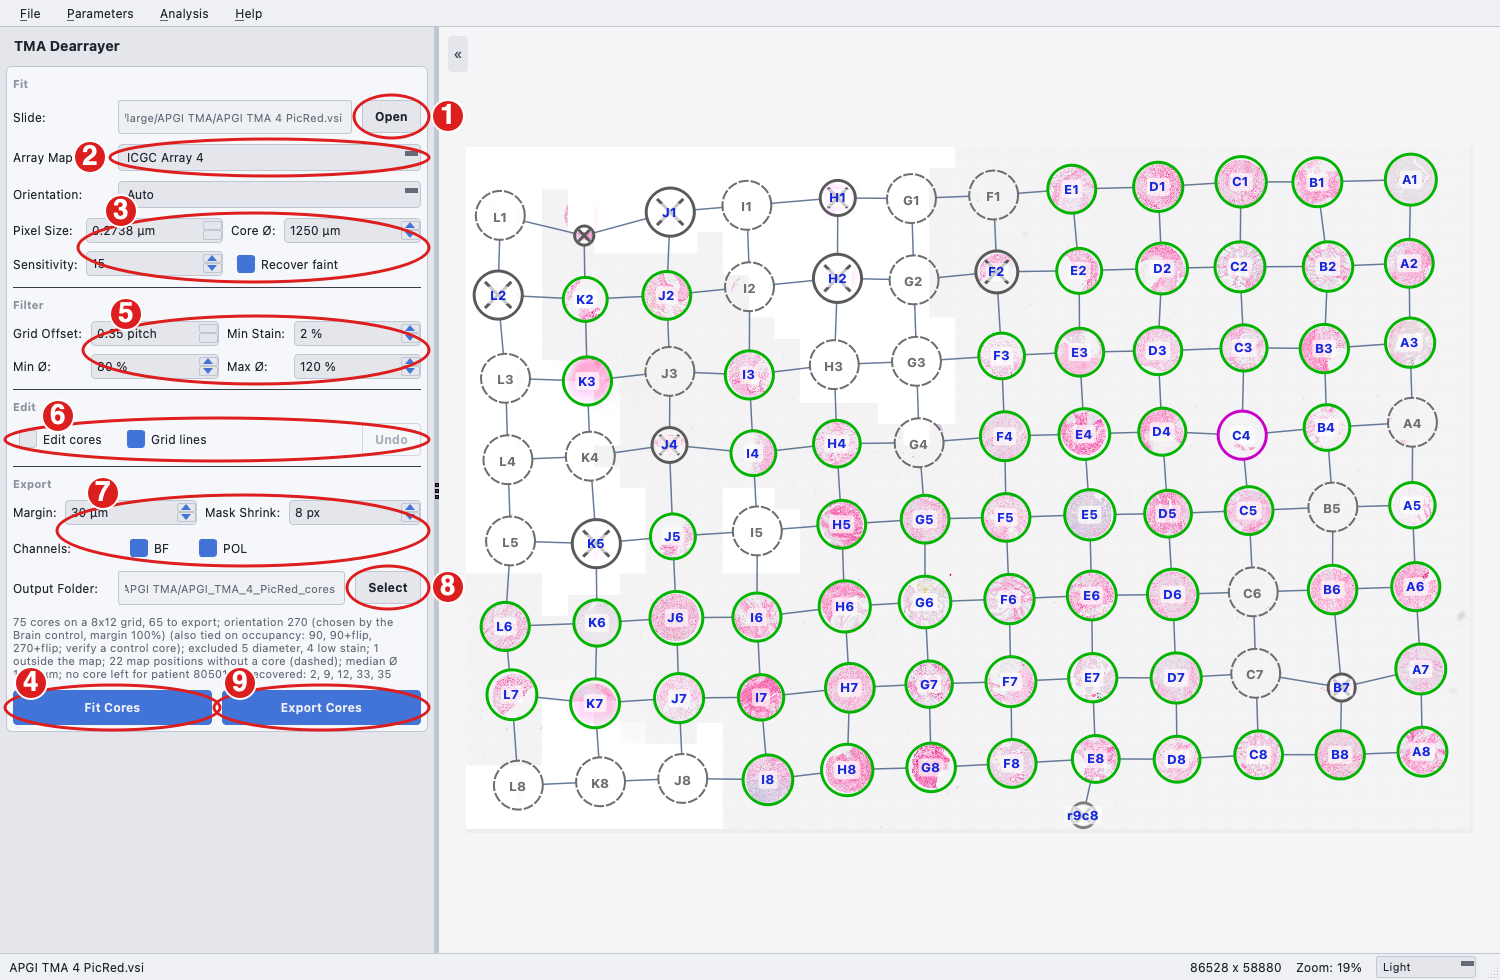
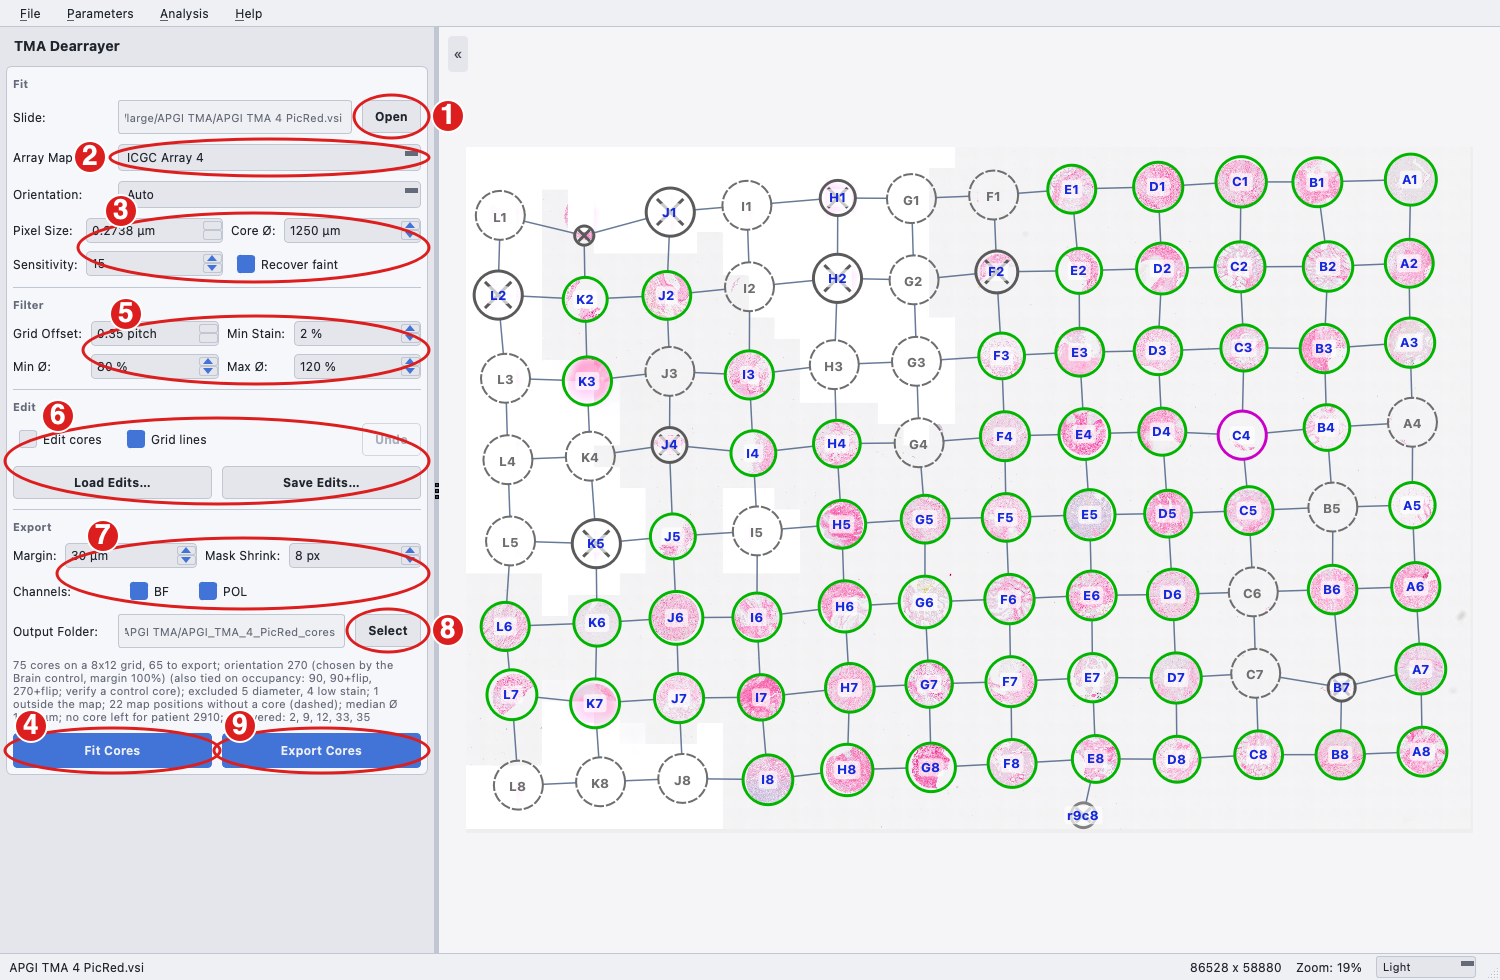
Let the TMA map overhang the grid by its empty edge rows
match_orientation only tried placements keeping the map inside the
scanned grid (or the grid inside the map). On APGI TMA 2, stray tissue
beside the array widened the grid, and the correct placement needs the
map's empty row L to lie outside it, so every label was shifted by a row
whatever the orientation. The map may now hang past the grid by as many
rows or columns as it has empty along that edge; fully populated arrays
are matched exactly as before. On the ten APGI slides only TMA 2
changes (Auto: 270, decided by the Brain control).

Also refresh the TMA page screenshot to show the Load/Save Edits row.

Changed region(s): [[0.0, 0.4286, 0.3067, 0.7959]]

diff --git a/tests/test_tma.py b/tests/test_tma.py
@@ -1030,3 +1030,51 @@ class TestMapPosition:
             else:
                 assert c.outside_map
         pre.close()
+
+
+class TestBoundedOverhang:
+    """The map may hang past the scanned grid only by its empty edge rows/columns."""
+
+    def test_empty_margins(self):
+        from cabana.tma import _empty_margins
+        assert _empty_margins(occupancy_grid(2)) == (0, 1, 0, 0)          # row L of arrays 1 and 2
+        for array in range(3, 9):
+            assert _empty_margins(occupancy_grid(array)) == (0, 0, 0, 0)  # nothing new for full arrays
+        assert _empty_margins(np.zeros((3, 3), bool)) == (0, 0, 0, 0)
+
+    @staticmethod
+    def _tma2_like():
+        """Array 2 at 270 degrees (empty row L on the left, so invisible) with a
+        column of stray tissue three pitches right of the array."""
+        from cabana.tma import _transform_grid
+        occ_t = _transform_grid(occupancy_grid(2), "270")
+        assert not occ_t[:, 0].any()
+        observed = np.zeros((8, 15), dtype=bool)
+        observed[:, :11] = occ_t[:, 1:]
+        observed[:, 14] = True
+        idx_t = _transform_grid(np.stack(np.meshgrid(np.arange(12), np.arange(8), indexing="ij"), axis=-1), "270")
+        return observed, idx_t
+
+    def test_stray_tissue_no_longer_shifts_the_map(self):
+        observed, idx_t = self._tma2_like()
+        o, lookup, score, _ = match_orientation(observed, 2, "270")
+        for r in range(8):
+            for c in range(11):
+                assert tuple(lookup[r, c]) == tuple(idx_t[r, c + 1])       # scan col c is map column c + 1
+        assert (lookup[:, 14] == -1).all()                                 # the stray tissue is off the map
+
+    def test_auto_includes_the_correct_placement(self):
+        observed, _ = self._tma2_like()
+        _, _, best, ties = match_orientation(observed, 2, "auto")
+        _, _, s270, _ = match_orientation(observed, 2, "270")
+        assert "270" in ties and s270 == best
+
+    def test_full_array_unchanged_with_stray_tissue(self):
+        from cabana.tma import _transform_grid
+        occ_t = _transform_grid(occupancy_grid(4), "90")                  # 8 x 12, no empty margin
+        observed = np.zeros((8, 16), dtype=bool)
+        observed[:, :12] = occ_t
+        observed[2:5, 15] = True
+        o, lookup, _, _ = match_orientation(observed, 4, "90")
+        idx_t = _transform_grid(np.stack(np.meshgrid(np.arange(12), np.arange(8), indexing="ij"), axis=-1), "90")
+        assert (lookup[:, :12] == idx_t).all() and (lookup[:, 12:] == -1).all()

diff --git a/cabana/tma.py b/cabana/tma.py
@@ -562,12 +562,28 @@ def _transform_grid(grid, orientation):
     return out
 
 
+def _empty_margins(occ):
+    """Numbers of empty rows at the top and bottom and empty columns at the
+    left and right of the boolean occupancy grid ``occ``."""
+    rows, cols = np.flatnonzero(occ.any(axis=1)), np.flatnonzero(occ.any(axis=0))
+    if not len(rows):
+        return 0, 0, 0, 0
+    return (int(rows[0]), int(occ.shape[0] - 1 - rows[-1]),
+            int(cols[0]), int(occ.shape[1] - 1 - cols[-1]))
+
+
 def match_orientation(observed, array_number, orientation="auto"):
     """Match the observed occupancy grid to the printed map.
 
     ``observed`` is a boolean ``(n_rows, n_cols)`` array of the scan. For each
     candidate orientation the transformed map is compared at every offset that
-    keeps the observed grid inside it. The score rewards cores present in both,
+    keeps the observed grid inside it, or the map inside the observed grid.
+    The map may also hang past an edge of the observed grid by as many rows
+    or columns as it has empty along that edge (see :func:`_empty_margins`):
+    an empty edge row is invisible on the slide, so when stray tissue widens
+    the grid on the opposite side the correct placement puts that row
+    outside the grid (APGI array 2, whose row L is empty). Fully populated
+    maps have no empty margin and are matched exactly as before. The score rewards cores present in both,
     penalises cores present in the scan but absent from the map heavily (they
     cannot exist) and dropped cores lightly (cores fall off sections).
 
@@ -590,8 +606,10 @@ def match_orientation(observed, array_number, orientation="auto"):
         idx_t = _transform_grid(map_idx, o)
         mh, mw = occ_t.shape
         oh, ow = observed.shape
-        for oy in range(min(0, mh - oh), max(0, mh - oh) + 1):
-            for ox in range(min(0, mw - ow), max(0, mw - ow) + 1):
+        top, bottom, left, right = _empty_margins(occ_t)
+        # oy > 0 hangs the map's top past the grid by oy rows, oy < mh - oh its bottom
+        for oy in range(min(0, mh - oh, mh - oh - bottom), max(0, mh - oh, top) + 1):
+            for ox in range(min(0, mw - ow, mw - ow - right), max(0, mw - ow, left) + 1):
                 score = 0.0
                 lookup = np.full((oh, ow, 2), -1, dtype=int)
                 for r in range(oh):

diff --git a/docs/make_screenshots.py b/docs/make_screenshots.py
@@ -236,7 +236,8 @@ def main(argv):
                 (3, union(win, (win.tma_core_diameter_spin, win.tma_sat_spin, win.tma_recover_cb))),
                 (4, rect_of(win, win.tma_fit_btn)),
                 (5, union(win, (win.tma_offset_spin, win.tma_stain_spin, win.tma_dmin_spin, win.tma_dmax_spin))),
-                (6, union(win, (win.tma_edit_cb, win.tma_links_cb, win.tma_undo_btn))),
+                (6, union(win, (win.tma_edit_cb, win.tma_links_cb, win.tma_undo_btn,
+                                 win.tma_load_edits_btn, win.tma_save_edits_btn))),
                 (7, union(win, (win.tma_margin_spin, win.tma_erode_spin, *win.tma_channel_cbs.values()))),
                 (8, rect_of(win, win.tma_output_btn), "right"),
                 (9, rect_of(win, win.tma_export_btn)),

diff --git a/docs/source/tma.md b/docs/source/tma.md
@@ -56,7 +56,8 @@ before exporting, and exporting can be repeated into a different folder.
    instantly without a refit (see [Quality filters](#quality-filters)).
 6. **Edit.** *Edit cores* turns on hand correction of the circles on the
    overlay, *Grid lines* shows or hides the lattice and *Undo* reverts the
-   last edit (see [Editing cores by hand](#editing-cores-by-hand)).
+   last edit; **Load Edits…** and **Save Edits…** reinstate or keep hand
+   edits without exporting (see [Editing cores by hand](#editing-cores-by-hand)).
 7. **Export settings.** *Margin* around each circle, *Mask Shrink*, and the
    channels (BF, POL) to write.
 8. **Output Folder** for the export. Opening a slide always sets it to
@@ -241,7 +242,10 @@ covers every position of the printed map.
 
 The scan is typically rotated relative to the printed map. *Auto* compares the
 pattern of missing cores with the map for all eight rotations and mirror
-images. A fully populated array cannot distinguish a rotation from its mirror
+images, sliding the turned map across the fitted grid to find where it sits.
+An edge row or column that is empty on the printed map (row L of arrays 1
+and 2) is allowed to lie outside the fitted grid, so stray tissue beside the
+array cannot push the map out of place. A fully populated array cannot distinguish a rotation from its mirror
 image, so when several orientations tie Cabana breaks the tie by appearance:
 
 1. **Brain control.** Brain tissue is nearly collagen-free, so the core at

diff --git a/docs/source/changelog.md b/docs/source/changelog.md
@@ -1,5 +1,17 @@
 # Changelog
 
+## Unreleased
+
+### TMA Dearrayer
+
+- *Auto* and an explicitly chosen orientation can now place the map with an
+  empty edge row or column (row L of arrays 1 and 2) outside the fitted grid.
+  Stray tissue beside APGI TMA 2 had widened the grid on the other side, so
+  every label was shifted by a row whatever the orientation; TMA 2 is now
+  placed correctly by *Auto* (270, decided by the Brain control). Fully
+  populated arrays (3 to 8) are matched exactly as before. Re-export TMA 2
+  if it was exported with an earlier version.
+
 ## 0.3.4
 
 ### TMA Dearrayer
